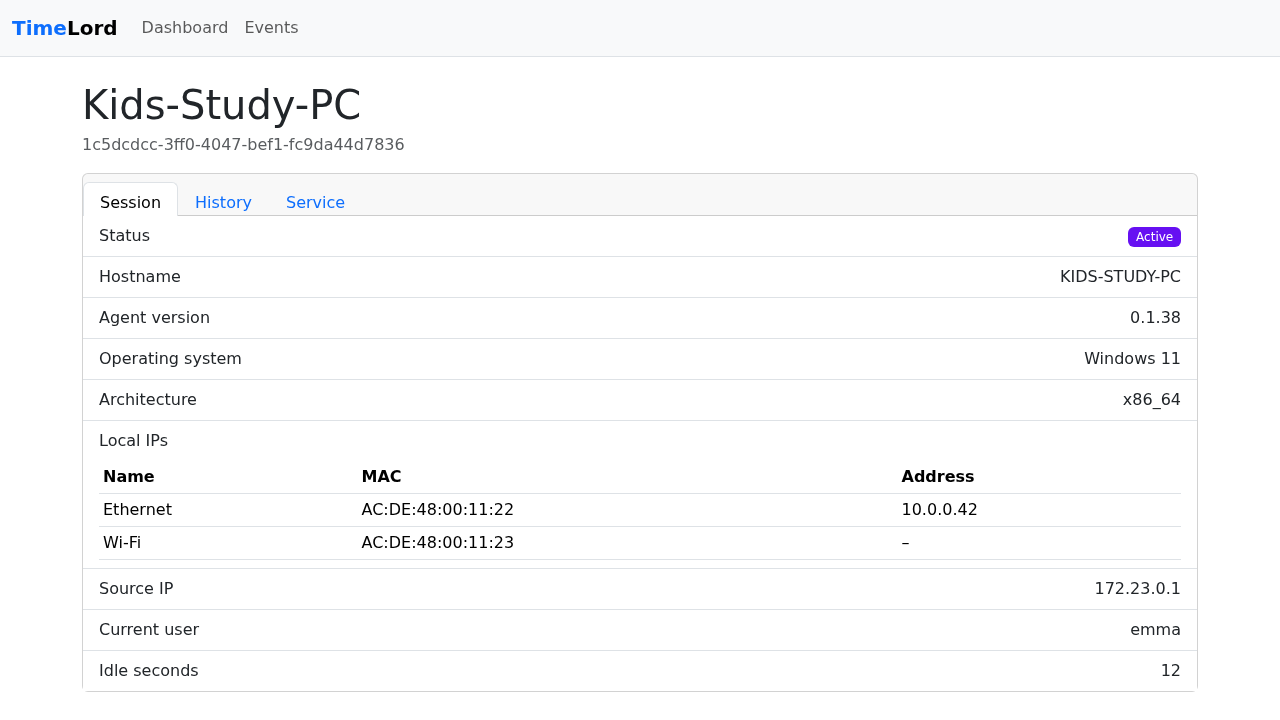
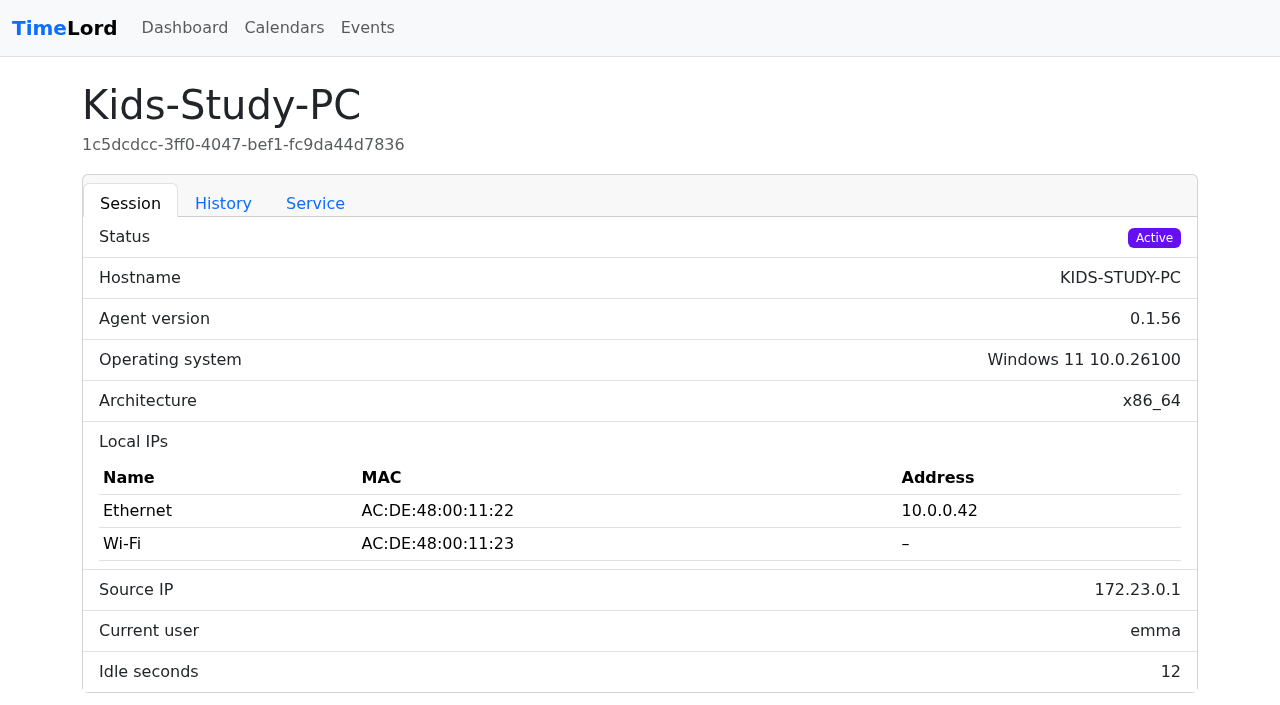
Add calendar, device and message screenshots to the docs
Regenerate the dashboard and device screenshots (they predated the
Calendars nav, calendar/message cards and message form), add calendar
list/editor, device calendar and message card images, and document the
startup re-confirmation behaviour.

diff --git a/docs/scheduling.md b/docs/scheduling.md
@@ -5,10 +5,20 @@ assign each device to one, and the agent puts the device to sleep (or shuts it d
 calendar's off times. "On" simply means *allowed to be on again* — nothing wakes a sleeping
 device.
 
+<figure markdown>
+  ![The Calendars page listing two calendars and a form to create another](images/calendars.png)
+  <figcaption>The Calendars page: each calendar's action, timezone and how many rules and overrides it has.</figcaption>
+</figure>
+
 !!! note "Developer preview"
     Scheduling is new. The agent-side sleep and shutdown have not been exercised on real hardware
     beyond compile checks and unit tests — try it on a spare machine first (see
     [Trying it safely](#trying-it-safely)).
+
+<figure markdown>
+  ![A calendar's page with weekly rules, holiday overrides and a 14-day preview](images/calendar-detail.png)
+  <figcaption>The calendar editor: weekly rules, overrides, and the resolved next 14 days.</figcaption>
+</figure>
 
 ## How a calendar works
 
@@ -52,6 +62,11 @@ see exactly what a calendar resolves to before relying on it.
 
 ### Allowing a device longer
 
+<figure markdown>
+  ![Device page cards for assigning a calendar and granting more time](images/device-calendar.png)
+  <figcaption>The device page: calendar assignment, upcoming off times and the extension buttons.</figcaption>
+</figure>
+
 On a device's page, **+15 min / +30 min / +1 hour** grant a temporary **extension**:
 
 - If the device is already inside an off window, it is allowed back on for that long from now.
@@ -71,6 +86,16 @@ overrides.
 
 - **Cached locally.** The latest schedule is saved as `schedule.json` next to `agent.toml`, so
   enforcement continues across restarts and while the controller is unreachable.
+- **Startup and resume.** The cached schedule can be stale: the calendar may have been edited, or
+  the device granted more time, while it was off or asleep. So the agent does **not** enforce the
+  cache the moment it starts. It waits until the controller has confirmed the schedule (in the
+  registration or heartbeat response, or a long poll). If the controller stays unreachable for
+  90 seconds it enforces the cache anyway, so an offline device is still governed. The same
+  re-confirmation happens after the agent resumes from a sleep it caused, and after any wake it
+  notices (a wake-up much later than planned, such as a closed lid). The notifier is not told about
+  upcoming actions from an unconfirmed cache either. In practice a device that boots inside a
+  cached off window stays on for a few seconds while it checks in, then either goes back to sleep
+  (nothing changed) or stays on (the calendar or an extension now says it may).
 - **Changes arrive immediately.** Besides every heartbeat, the agent holds a long poll open to
   `GET /api/v1/agents/{id}/schedule?revision=…`. The controller answers the moment an extension,
   assignment or calendar edit changes the revision, so "+30 minutes" takes effect within moments,

diff --git a/docs/index.md b/docs/index.md
@@ -55,9 +55,9 @@ keyboard first.
 ## Screenshots
 
 <figure markdown>
-  ![Dashboard showing three devices: Offline, Active, and Inactive](images/dashboard.png)
-  <figcaption>The dashboard shows exactly one status badge per device: Offline, Active (online with
-  someone logged in), or Inactive (online with nobody logged in).</figcaption>
+  ![Dashboard with a message-all-devices form and three devices: Offline, Active, and Locked](images/dashboard.png)
+  <figcaption>The dashboard shows exactly one status badge per device — here Offline, Active
+  (online with someone logged in) and Locked — and a form to send a message to every device.</figcaption>
 </figure>
 
 <figure markdown>
@@ -76,6 +76,19 @@ keyboard first.
   ![Device detail page, Service tab, showing agent service state and registration times](images/device-detail-service.png)
   <figcaption>Device detail — Service tab: the agent service's own state — registration and
   heartbeat timestamps, independent of whether anyone's logged in.</figcaption>
+</figure>
+
+<figure markdown>
+  ![A calendar's page with weekly rules, holiday overrides and a 14-day preview](images/calendar-detail.png)
+  <figcaption>A calendar: weekly off/on rules, dated overrides (half-term, a one-night sleepover,
+  the Christmas holidays) that never change the base schedule, and a preview of exactly what it
+  resolves to over the next 14 days.</figcaption>
+</figure>
+
+<figure markdown>
+  ![Device page cards for assigning a calendar, granting more time and sending messages](images/device-calendar.png)
+  <figcaption>On a device: the assigned calendar, its upcoming off times, and one-click +15 / +30 /
+  +60 minute extensions (here, 30 minutes already granted).</figcaption>
 </figure>
 
 ## Get started

diff --git a/docs/agent.md b/docs/agent.md
@@ -21,7 +21,9 @@ Windows service (Rust) that tracks device usage and reports it to a TimeLord Con
 5. Receives its [calendar](scheduling.md) as concrete off windows (in heartbeat responses and via
    a long poll that delivers changes within moments), caches it in `schedule.json`, and puts the
    device to sleep or shuts it down inside an off window — also while the controller is
-   unreachable.
+   unreachable. At startup and after a sleep it first waits for the controller to confirm the
+   cached schedule (up to 90 seconds), since a calendar edit or extension may have happened
+   meanwhile; see [Startup and resume](scheduling.md#how-the-device-enforces-it).
 6. Long-polls for administrator messages, caches them in `messages.json`, and serves pending
    power actions and messages to the per-user [notifier](notifier.md) over a local named pipe
    (`\\.\pipe\timelord-notify`, read-only).

diff --git a/docs/architecture.md b/docs/architecture.md
@@ -233,7 +233,10 @@ changes take effect quickly:
   and otherwise returns after the timeout so the agent asks again.
 
 The agent caches both (`schedule.json`, `messages.json`) and keeps enforcing
-from the cache while the controller is unreachable. The notifier then reads
+from the cache while the controller is unreachable. Because that cache can be
+stale after the device has been off or asleep, the agent re-confirms it with
+the controller on startup and after a sleep before enforcing it (falling back
+to the cache after 90 seconds without an answer). The notifier then reads
 that cache through the agent's local pipe; see [Notifier](notifier.md#how-it-works).
 
 ## Event delivery and idempotency

diff --git a/docs/notifier.md b/docs/notifier.md
@@ -29,6 +29,12 @@ so a restart or a later logon does not repeat them.
 
 ## Sending a message
 
+<figure markdown>
+  ![The Send a message card on a device page, with message history](images/device-messages.png)
+  <figcaption>Sending a message to one device, with the history showing one waiting and one
+  delivered message. The dashboard has the same form for all devices.</figcaption>
+</figure>
+
 From a device's page use **Send a message**, or from the dashboard use **Message all devices**.
 
 | Field | Notes |
